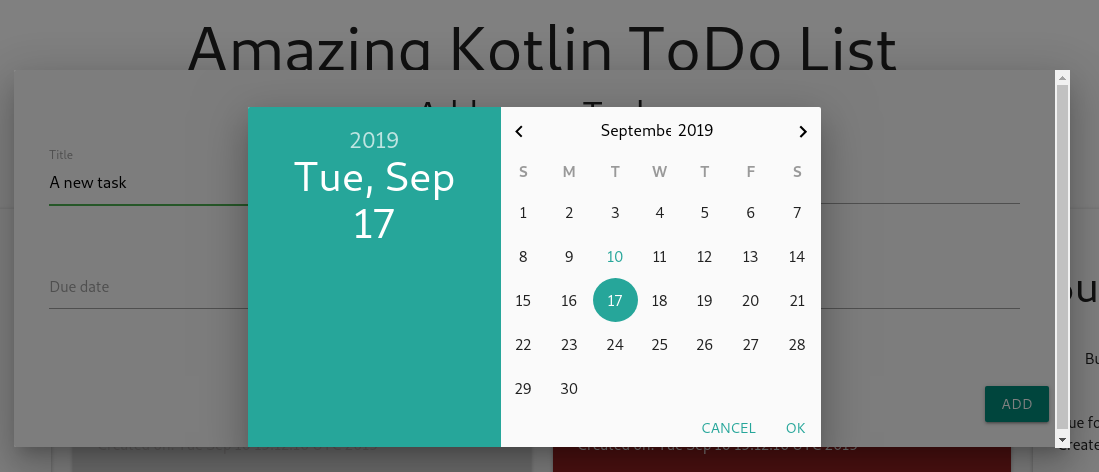
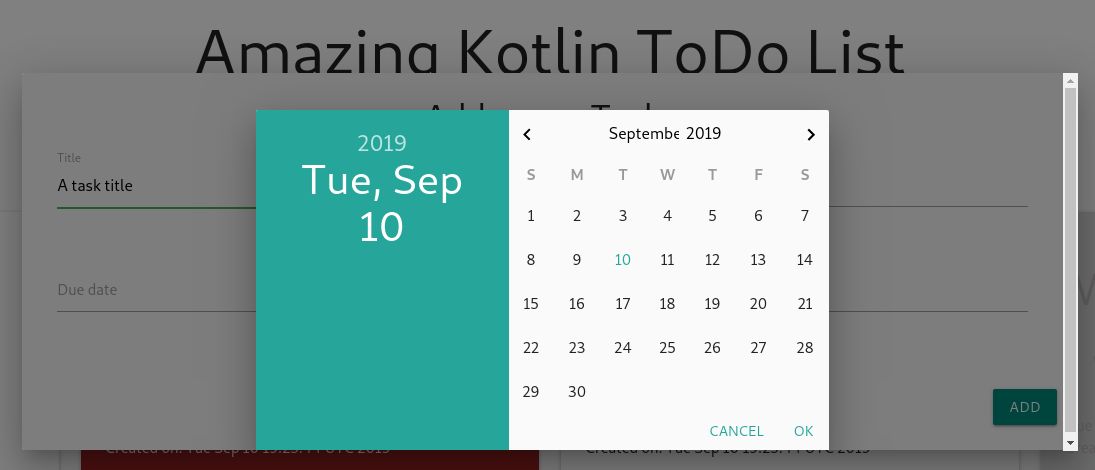
almost there

diff --git a/devdiary/d4.md b/devdiary/d4.md
@@ -1,0 +1,34 @@
+### Date 4.0
+Time to get some styling going
+
+#### 3.1
+I was familiar with [Materialize](https://materializecss.com) from a previous project so I decided to go with that for styling.
+
+Incorporating static files was simple enough, only requiring some editing of the Javalin initialization.
+
+Did some editing on `tasks.mustache` so that each task would appear on it's own box.
+
+#### 3.2
+One snag is that Mustache does not have any logic in it's templating language... So I had to hack it a bit so that completed/late tasks would appear with a different style.
+
+If I were to start over I'd go for a templating engine that has some logic (if statements, loops, etc).
+
+#### 3.3
+Right now I'm adding the modal that will have the form so a user can input a new task. 
+
+The only snag has been getting the datepicker to return a proper value. I want it to return a Unix timestamp but in order to do that I'd have to edit the javascript files from Materialize. Instead, I think I'll edit my DAO so that it handles the string conversion into a unix timestamp.
+
+Looking through Kotlin's documentation for a convenience function for converting datetimes.
+![Starting to look like something](/img/styled.png)
+
+
+#### 3.4
+It turns out Kotlin does not have it's own class to handle time, it uses Java's classes for that. After some searching I found a simple way to convert the string passed by the new task form into a unix time. Edits made to `TaskDAO`.
+
+Also fixing the ordering of the tasks by their due date.
+
+![Modal](/img/modal.png)
+
+#### 3.5
+The last major piece of the backend is to setup a routine that checks for the tasks due date versus the current date and changes their status to late if necessary.
+
